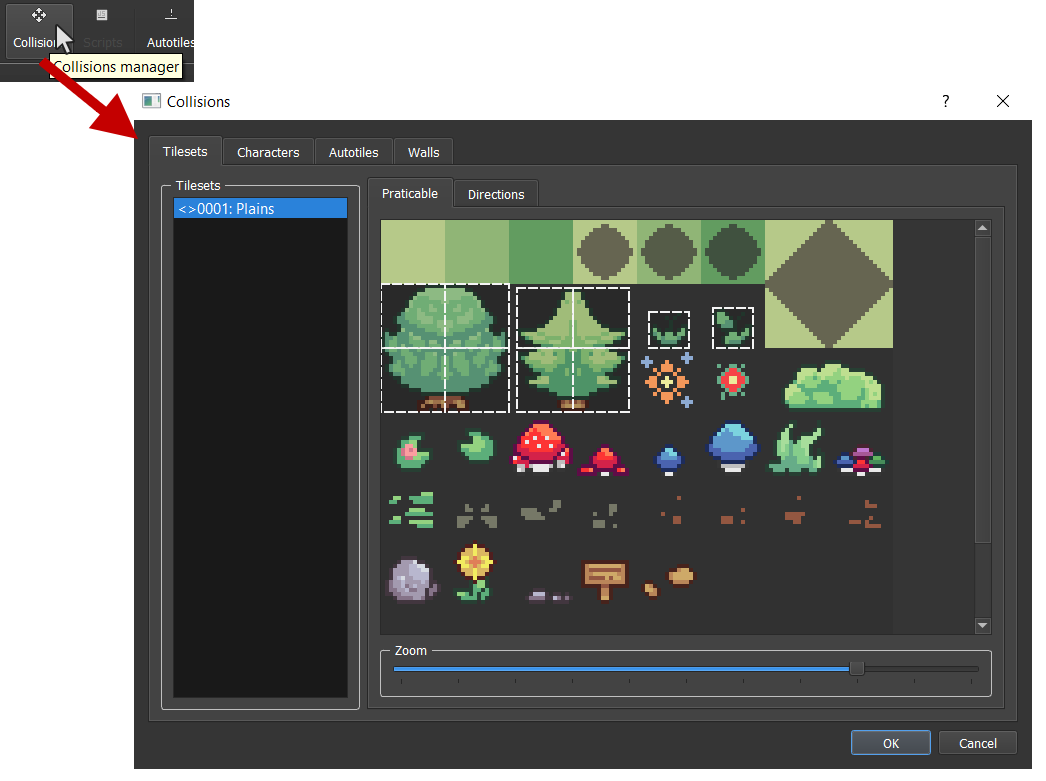
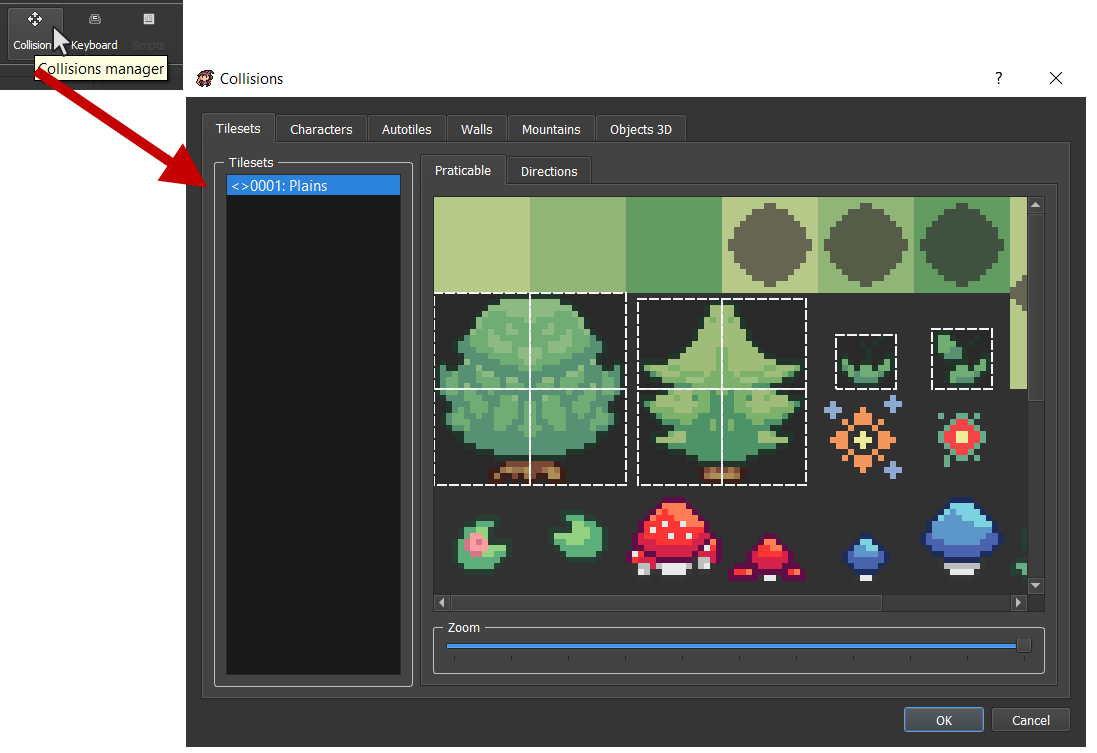
Documentation for 1.3.0

diff --git a/docs/basics/objects-and-events.md b/docs/basics/objects-and-events.md
@@ -47,7 +47,7 @@ If you see that you are often copying the same set of commands a lot of time may
 
 This way you will be able to call this common reaction instead of always copying it. It's even taking parameters if you have some variations in your reaction.
 
-* `Blocking hero`: If checked, the hero will not be able to move until the reaction is finished.
+* `Block hero when reaction`: If checked, the hero will not be able to move until the reaction is finished.
 
 ## Objects
 
@@ -58,6 +58,7 @@ To add an object in a map, select the `Object` map editor section. Point on a ma
 ![Screenshot](img/object-map.png)
 
 * `Name`: Choose a name for your objects. This can help later if you want to execute actions on this object externally.
+* `Only one event per frame`: We will see what are events, if checked the object will have only one reaction per frame and not several in the same time.
 * `Model`: Choose a model for this object. We will see later how to configure models.
 
 ### Events
@@ -96,7 +97,21 @@ For each state, you have to choose different reactions to specific events. You c
 ![Screenshot](img/state-options.png)
 
 * `Graphics`: Select the object graphics here (character picture). Choose below the kind of element (Sprite etc.).
-* `Moving`: *(not available yet)* Options linked to the object moves.
+* `Moving`: Options linked to the object moves when there is no reaction.
+	* `Type`: The type of moving.
+		* `Fix`: The object will not move at all.
+		* `Random`: The object will move randomly in the map.
+		* `Route`: The object will loop on a route that you can edit with the `Edit route...` button. Check out move object command documentation [here](event-commands-overview/#move-object) that is exactly the same.
+	* `Speed`: The speed value when the object is moving that increases/decreases the traveled distance for the same time.
+	* `Freq`: The frequency value when the object is moving that increases/decreases the number of animation frames displayed for the same time.
+
+	NOTE: You can edit speed and frequency list in `Systems manager > System`:
+
+	![Screenshot](img/speed-frequency.png)
+
+	* `Name`: The name of the speed / frequency.
+	* `Value`: The value of the speed / frequency (can only be a number).
+
 * `Move animation`: If checked, all the frames of the character will be drawn for move animation. If not, this will only draw the first frame of the character animation.
 * `Stop animation`: *(not available yet)* If checked, all the frames of the character will be drawn for stopped animation. If not, this will only draw the first frame of the character animation.
 * `Climb animation`: *(not available yet)* If checked, all the frames of the character will be drawn for climbing animation. If not, this will only draw the first frame of the character animation.
@@ -107,9 +122,12 @@ For each state, you have to choose different reactions to specific events. You c
 
 ### Properties
 
-*Not available yet.*
-
 The object also has a set of properties. It can be HPs, age, gender, etc. It all depends on what you need and your type of game.
+
+![Screenshot](img/object-properties.png)
+
+* `Name`: The property name.
+* `Initial value`: The initial value of the property when the object is loaded for the first time.
 
 ## Example: create a chest
 
@@ -166,3 +184,35 @@ If an object uses a model but also has content, this new content will replace so
 * **State**: If there is a state with the same ID, the model reactions for this state ID will be replaced by the current content.
 * **Property**: If there is a property with the same name, the model reactions for this property name will be replaced by the current content.
 * **Event**: This has no influence.
+
+## Map startup reactions
+
+In map properties, you can see this section:
+
+![Screenshot](img/map-startup-reactions.png)
+
+This simply is an invisible object that will be usefull for cinematics when entering a new map, for example. This is invisible, so there are no state graphics. By default, it is reacting to the event `Time` with 0 for interval parameter and OFF for repeat parameter. That means that these reactions will be excecuted in high priority when entering the map. This can be used for cinematics and some other stuff.
+
+## Detections
+
+It is important to use detections with objects. In fact, you are already using it when you react to `Hero Action` event. `Hero Action` event is an event that is sent by the hero itself to the objects that are in front of him. In order to determine where the events are sent, we use what we call `detections`.
+
+You can access to detections list in `Systems manager > System`:
+
+![Screenshot](img/detections.png)
+
+And here is the front detection! You clearly see here that your event can be sent in front. There is an arrow indicating the square position of the object sending the event, and also the orientation. You can add detection boxes by using `left click` and `right click` to delete existing detection boxes.
+
+* `Name`: The detection name.
+* `Field`: The detection field that you can increase/decrease.
+	* `Left`: Number of squares on the left side of the object sending the event.
+	* `Right`: Number of squares on the right side of the object sending the event.
+	* `Top`: Number of squares on the top side of the object sending the event.
+	* `Bot`: Number of squares on the bot side of the object sending the event.
+* `New box height`: The height that will be applied on the next boxes.
+	* `Square(s)`: Number of squares for detection box height.
+	* `Pixel(s)`: Number of pixels in addition for detection box height.
+* `Automatic`: A way to automaticaly generate detection boxes adding.
+	* `Circle`: Draw a circle with given `radius`.
+	* `Rectangle`: Draw a rectangle with given `length` and `width`.
+	* `Generate`: Clicking on this button will generate the selected form and options.

diff --git a/docs/basics/map-editor-basics.md b/docs/basics/map-editor-basics.md
@@ -22,7 +22,10 @@ If you want to create / edit a map, you will get this window:
 * `Depth`: The map depth number of squares (Y axe < 0).
 * `Music`: The music that is played in the background when entering the map.
 * `Background sound`: The background that is played in the background with the music. This can be wind, rain, etc.
+* `Camera prop. ID`: The camera property ID used when entering the map.
 * `Sky color`: The color used for the sky.
+* `Map startup reactions`: You can configure here particular things happening when entering the map. We will se later how to do that thanks to objects.
+* `Battles`: **(not implemented yet)**
 
 ## Move cursor / grid / camera
 
@@ -84,19 +87,6 @@ Here are the different paint mode **(4)** for drawing your elements in the map:
 * `Pencil`: Draw squares one by one.
 * `Rectangle`: Draw squares after tracing a rectangle **(not available yet)**.
 * `Pin of paint`: Fill squares with the same texture as the one pointed.
-
-## Layers options
-
-You can choose here if you want to be on layer mode or not here:
-
-![Screenshot](img/layers.png)
-
-* `No layer`: Replace the selected square by a new one.
-* `Layer`: Add a new square on top of the selected one. There is no limit.
-
-Example of layers used with walls:
-
-![Screenshot](img/walls-layers.png)
 
 ## Lands
 
@@ -201,3 +191,45 @@ That's it! You will understand later why we are using an object and why this wil
 *Note:* You can see who is the hero with a "S" symbol under it.
 
 ![Screenshot](img/hero.png)
+
+## Transformations
+
+In 3D, transformations are these 3 different action:
+
+### Translation
+
+*Not available yet.*
+
+### Rotation
+
+Apply rotation to sprites or 3D objects only.
+
+![Screenshot](img/rotate.png)
+
+If you left / right click a map element, this will select the object and apply the current configured transformation. You can choose the axis `X`, `Y`, or `Z` to apply the rotation on by selecting the corresponding tab.
+
+![Screenshot](img/rotation-panel.png)
+
+* `[Selected object]`: Display information about the current selected object bellow. New transformations will be applied to this selected object.
+* `+ / =`: The operation to apply on transformation (add or apply).
+* `Angle`: The angle to add or apply to the selected object.
+* `Apply on left / right click`: If checked, you will apply the transformation each time you click on a selected object. If `+` operation is activated, right click will in fact be a `-` operation. If not checked, updating `angle` will immediately update the selected object.
+* `Define as default X/Y/Z rotation`: Save current `angle` input in engine settings so you get this value in the `angle` input each time you restart the engine.
+* `Reset to default X/Y/Z rotation`: Fill current `angle` input with the saved default rotation value.
+
+### Scaling
+
+*Not available yet.*
+
+## Layers options
+
+You can choose here if you want to be on layer mode or not here:
+
+![Screenshot](img/layers.png)
+
+* `No layer`: Replace the selected square by a new one.
+* `Layer`: Add a new square on top of the selected one. There is no limit.
+
+Example of layers used with walls:
+
+![Screenshot](img/walls-layers.png)

diff --git a/docs/basics/control-the-camera.md b/docs/basics/control-the-camera.md
@@ -88,3 +88,18 @@ Here we are, now that you know a bit more about the camera properties we can see
 
 * `Wait the end of the move before the next command`: Wait the end of the move before the next command (same as for the [move object command](event-commands-overview/#move-object)). It can be used to execute commands while the camera is moving (display texts, sounds...).
 * `Time`: Indicate here the time in seconds for the camera to move to its final position. If 0, the move will be immediate.
+
+## Camera properties
+
+You can control the default properties of the camera when you are going into a new map. You can set the camera ID in `map properties`. You also have access to the camera properties list in `Systems manager > System`:
+
+![Screenshot](img/camera-properties.png)
+
+* `Name`: The name of the camera properties.
+* `Distance`: The distance between the camera and the hero.
+* `Horizontal angle`: The horizontal angle between the camera and the hero.
+* `Vertical angle`: The vertical angle between the camera and the hero.
+* `Target offset`: A position on every axes for adding an offset to the target position.
+* `Field of fiew`: The angle used to determine the angle vision limit of the camera. We recommand to keep the default value.
+* `Near`: Min distance between camera and elements for being drawn. We recommand to keep the default value.
+* `Far`: Max distance between camera and elements for being drawn. We recommand to keep the default value.

diff --git a/docs/basics/title-screen-and-game-over.md b/docs/basics/title-screen-and-game-over.md
@@ -8,9 +8,37 @@ Got to `Systems datas > Title screen / Game over`:
 
 In the first section, you can edit some of the title screen properties.
 
-* `Logo`: Picture used for displaying the logo on top-left border.
-* `Background`: Picture used for title screen background.
+### Background
+
+* `Image`: Picture used for title screen background.
+* `Video`: Video used for title screen background.
+
+### Menu commands
+
 * `Music`: Music used when player is in title screen.
+
+### Menu commands
+
+Customize here the commands to display in the title screen.
+
+![Screenshot](img/title-commands.png)
+
+* `Name`: The displayed text ingame.
+* `Type of command`: The type of command.
+	* `New game`: Run a new game.
+	* `Load game`: Open saves menu.
+	* `Options`: Open the settings menu.
+	* `Exit`: Quit game.
+	* `Script`: Excecute custom script that can be entered in the appropriate textarea.
+
+### Settings configuration
+
+![Screenshot](img/settings-menu.png)
+
+* `Settings configuration`: The settings menu can be customized here by reordering and / or displaying some of the options.
+	* `Keyboard assignments`: Configuration of the keyboard assignements proposed in the `Keyboard manager`.
+
+	![Screenshot](img/keyboard-assignments.png)
 
 ## Game Over
 

diff --git a/docs/basics/event-commands-overview.md b/docs/basics/event-commands-overview.md
@@ -245,9 +245,17 @@ This will change the state of the current object. An object can have several sta
 	* `Add`: Only add the new state.
 	* `Remove`: Remove the object state having this ID.
 
-## Change properties
+## Change property
 
-*Not available yet.*
+![Screenshot](img/command-change-property.png)
+
+This will change a property value of the current object.
+
+* **Selection**:
+	* `property ID`: The property ID to change.
+* **Operation**: The operation to use according to the current property value.
+* **Value**:
+	* `New value`: The new value to apply to the property with the corresponding operation.
 
 ## Change graphic
 
@@ -374,8 +382,7 @@ Create a container for commands that will be executed only if the indicated cond
 
 * `Add "else" when conditions do not apply`: Create another container for commands that will be executed only if the indicated condition is false.
 
-* **Variables**:
-	* `Variable`: The variable that will be compared by value.
+* **Variables / Param / Prop**: Compare a variable or a parameter or a property with any other type of value.
 
 ## Loop
 

diff --git a/docs/index.md b/docs/index.md
@@ -69,9 +69,10 @@ A lot of options are available in the `Systems manager`. Click here on the main 
 * `Ray portions (ingame)`: *(not available yet)* Same but for ingame.
 * `Mountain collision height limit (in px)`: The height considered for blocking the hero so the hero can go up blocks that are in inferior height value.
 * `Mountain collision angle limit (in degree)`: The angle considered for blocking the hero so the hero can go up mountains that are in inferior angle value.
+* `Animation frames`: Number of frames available in an animation (walk, battlers, etc.).
+* `Window skin`: The default windows skin used for designing windows UI.
 * `Max number of save slots`: *(not available yet)* Change the max number of save slots available for the players.
 * `Price of sold item`: *(not available yet)* Change the percent value of the original price of an item when you want to sell it in a shop.
-* `Window skin`: The default windows skin used for designing windows UI.
 
 ## Update keyboard controls
 

diff --git a/docs/basics/tilesets-and-collisions.md b/docs/basics/tilesets-and-collisions.md
@@ -100,9 +100,12 @@ You can manage the mountains the same way you did for autotiles in:
 * In the texture selector
 * `Tilesets` tab in datas manager:
 
-![Screenshot](img/mountains-tileset.png)
-
-To manage collisions with mountains, go to `Systems manager > System` and set the `Mountain collisions height limit (in px)` and `Mountain collisions angle limit (in degree)`.
+	![Screenshot](img/mountains-tileset.png)
+	
+	* `Collisions`: 
+		* `Default (according to height and angle):` To manage collisions with mountains, go to `Systems manager > System` and set the `Mountain collisions height limit (in px)` and `Mountain collisions angle limit (in degree)`.
+		* `Force always collides`: Force collision everytime. 
+		* `Force never collides`: Force no collision everytime. 
 
 ## 3D objects
 
